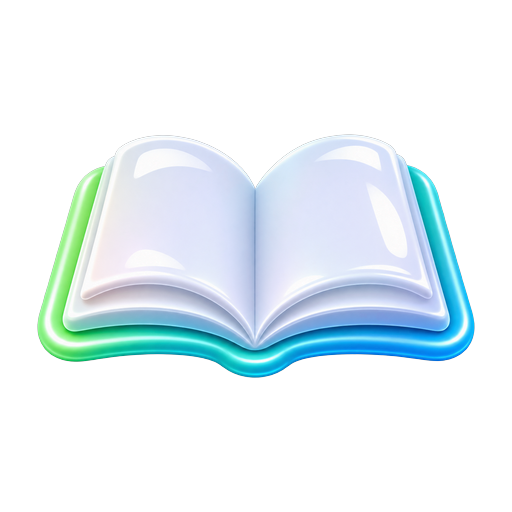
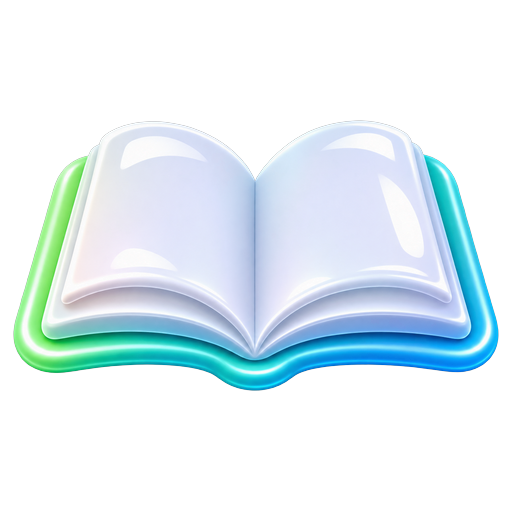
Крупнее глаз и книга, круги ленты сейва 150px
Глаз и книга увеличены внутри круга, круги категорий 118px → 150px.
style.css?v=229.

Claude-Session: https://claude.ai/code/session_01X4D3Cy5LRiV1DMgEYhoZbL

Changed region(s): [[0.0, 0.2188, 1.0, 0.7812]]

diff --git a/static/style.css b/static/style.css
@@ -1797,7 +1797,7 @@ html:has(.hsec),body:has(.hsec){background:#eef3fb}
 .htile.hboard .hb-c{position:absolute;top:12px;right:12px;width:30px;height:30px;border-radius:50%;background:#fff;display:flex;align-items:center;justify-content:center;font-size:13px;font-weight:600;color:#2b2f3a}
 
 /* сейф на главной: все плитки круглые, знак категории на пастельном круге */
-.hslider .htw{flex:0 0 118px}
+.hslider .htw{flex:0 0 150px}
 .hslider .htile{position:relative;aspect-ratio:1;border-radius:50%;width:100%;padding:0;background:#fff;border:1px solid #e7e7ee;display:flex;align-items:center;justify-content:center;transition:transform .15s,box-shadow .15s,border-color .15s}
 .hslider .htile:hover{transform:translateY(-3px);box-shadow:0 10px 20px -8px rgba(40,44,70,.28);border-color:#dcdce6}
 .hslider .htile img{width:62%;height:62%;object-fit:contain;display:block;pointer-events:none;user-select:none}

diff --git a/static/index.html b/static/index.html
@@ -14,7 +14,7 @@
 <link rel="preload" href="/static/fonts/inter-cyrillic-600-normal.woff2" as="font" type="font/woff2" crossorigin>
 <link rel="preload" href="/static/fonts/inter-latin-400-normal.woff2" as="font" type="font/woff2" crossorigin>
 <link rel="stylesheet" href="/static/fonts/inter.css">
-<link rel="stylesheet" href="/static/style.css?v=228">
+<link rel="stylesheet" href="/static/style.css?v=229">
 </head>
 <body>
 <div id="app"></div>
